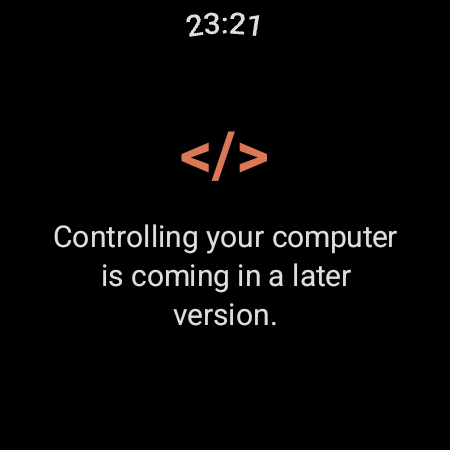
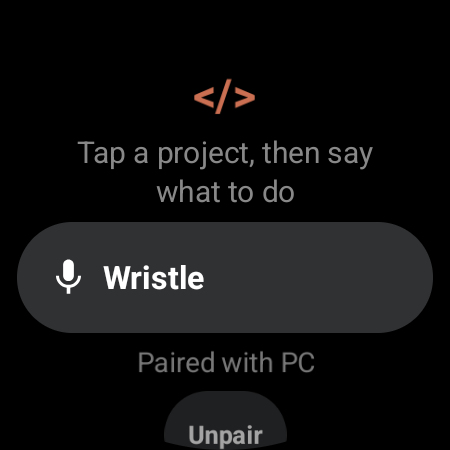
Release workflow for the watch app; README intro and Code screenshot
- A version tag (v0.2.0, ...) builds and tests the release APK on GitHub and
  attaches it to a release. It is signed with a fixed key from the repository
  secrets (docs/releasing.md) and carries no secrets: no API key, and no
  Firebase config, so the released APK offers Chat.
- Without Firebase in the build, the Code half explains why and points to
  `wristle setup`.
- README: a tagline that names the API rather than the product, Code as a real
  feature, a fresh Code screenshot, and the status notes moved down.

diff --git a/app/src/main/java/dev/ayoub/wristle/ui/code/CodeScreen.kt b/app/src/main/java/dev/ayoub/wristle/ui/code/CodeScreen.kt
@@ -65,7 +65,11 @@ fun CodeScreen(
     CenteredList(state = listState) {
         item { Text("</>", color = Accent, fontSize = 22.sp, fontWeight = FontWeight.Bold) }
         when (state) {
-            PairingState.NotConfigured -> item { Info(stringResource(R.string.relay_not_configured)) }
+            PairingState.NotConfigured -> {
+                item { Info(stringResource(R.string.relay_not_configured)) }
+                item { Info("wristle setup", color = Accent, monospace = true) }
+                item { Info(stringResource(R.string.relay_not_configured_detail), color = Color.Gray) }
+            }
             PairingState.Unpaired, PairingState.Working -> {
                 item { CircularProgressIndicator(indicatorColor = Accent, modifier = Modifier.padding(8.dp)) }
                 item { Info(stringResource(R.string.pair_getting_code)) }

diff --git a/README.md b/README.md
@@ -4,7 +4,7 @@
 
 # Wristle
 
-**A voice-first Claude assistant that lives on your wrist.**
+**Talk to the Claude API from your wrist, and run Claude Code on your computer from it too.**
 
 <table>
   <tr>
@@ -19,12 +19,12 @@
   </tr>
   <tr>
     <td align="center"><img src="./docs/screenshots/settings.png" alt="Settings" width="200" /></td>
-    <td align="center"><img src="./docs/screenshots/code.png" alt="Code half: computer control coming later" width="200" /></td>
+    <td align="center"><img src="./docs/screenshots/code.png" alt="Code half: an allowed project on the computer" width="200" /></td>
     <td></td>
   </tr>
   <tr>
     <td align="center"><sub><i>Settings</i></sub></td>
-    <td align="center"><sub><i>Code (coming in phase 2)</i></sub></td>
+    <td align="center"><sub><i>Code: pick a project, say what to do</i></sub></td>
     <td></td>
   </tr>
 </table>
@@ -33,28 +33,13 @@ Press and hold the Home key, ask a question out loud, and watch the answer
 stream in while it is read back to you. The watch talks straight to the
 Claude API over its own Wi-Fi or LTE: no phone, no computer, no server.
 
-[What it does](#what-it-does) · [Compatibility](#compatibility) · [How it works](#how-it-works) · [Quick start](#quick-start) · [Launching](#launching-wristle) · [Roadmap](docs/phase-1-plan.md)
+Tap **Code** instead, pick a project on your computer and say what you want
+to know: a Claude Code session runs there and the answer comes back to your
+wrist, end-to-end encrypted.
+
+[What it does](#what-it-does) · [Compatibility](#compatibility) · [How it works](#how-it-works) · [Quick start](#quick-start) · [Launching](#launching-wristle) · [Computer bridge](bridge/README.md) · [Roadmap](docs/phase-2-plan.md)
 
 </div>
-
----
-
-## ⚠ Project status — read this first
-
-This is a **personal hobby project**. It runs every day on my Galaxy Watch 4.
-It is public because someone else might enjoy it, not because it is
-production-grade.
-
-- **Unofficial.** Not affiliated with, sponsored or endorsed by Anthropic.
-  "Claude" is a trademark of Anthropic, PBC, and is used here only to say
-  which API the app talks to.
-- **You pay for your own usage.** The app uses your own Claude API key
-  (pay-as-you-go). Set a spending limit in the Claude Console.
-- **The API key lives on the watch,** encrypted with a key from the Android
-  Keystore. Anyone with your unlocked watch and developer access could try
-  to get at it.
-- **Sideload only.** There is no Play Store build; you install it with `adb`.
-- **Expect breakage.** Wear OS, One UI Watch and the APIs underneath all move.
 
 ---
 
@@ -72,10 +57,32 @@ production-grade.
   and carry on.
 - ⚡ **Three ways in**: press and hold the Home key (Wristle as digital
   assistant), a one-tap **tile**, or the app list.
-- 🟧 **Two half moons.** The start screen splits into *Chat* and *Code*. Code
-  is where controlling your computer from the watch will live (phase 2).
-- 🔒 **No accounts, no cloud of its own, no analytics.** The only outbound
-  traffic is the watch talking to the Claude API with your key.
+- 💻 **Claude Code from your wrist.** The *Code* half pairs with a small
+  bridge on your computer (`wristle setup`; Windows, macOS and Linux). Pick an
+  allowed project, say what you want to know, and a read-only Claude Code
+  session runs there; you see its progress, the answer and what it cost.
+  Approving tool use from the watch is next.
+- 🔒 **No accounts, no cloud of its own, no analytics.** Chat only talks to the
+  Claude API with your key. Code adds your own free Firebase project as the
+  relay, with end-to-end encryption between watch and computer.
+
+---
+
+## Project status
+
+A **personal hobby project** that runs every day on my Galaxy Watch 4; public
+because someone else might enjoy it, not because it is production-grade.
+
+- **Unofficial.** Not affiliated with, sponsored or endorsed by Anthropic.
+  "Claude" is a trademark of Anthropic, PBC, and is used here only to say
+  which API the app talks to.
+- **You pay for your own usage** with your own Claude API key (pay-as-you-go).
+  Set a spending limit in the Claude Console.
+- **The API key lives on the watch,** encrypted with a key from the Android
+  Keystore. Anyone with your unlocked watch and developer access could try
+  to get at it.
+- **Sideload only.** No Play Store build; you install it with `adb`.
+- **Expect breakage.** Wear OS, One UI Watch and the APIs underneath all move.
 
 ---
 

diff --git a/docs/releasing.md b/docs/releasing.md
@@ -1,0 +1,46 @@
+# Releasing the watch app
+
+Pushing a version tag builds the release APK on GitHub and attaches it to a GitHub release
+([`.github/workflows/app-release.yml`](../.github/workflows/app-release.yml)):
+
+```bash
+git tag v0.2.0
+git push origin v0.2.0
+```
+
+## What is (not) in the APK
+
+- **No API key.** It reaches the watch after install (`wristle setup` → Chat, the adb scripts or typing it).
+- **No Firebase config.** The CI build has no `local.properties`, so the relay is off: the released APK offers
+  **Chat**. **Code** needs a build with your own Firebase project, which `wristle setup` → Code prepares.
+- **The signature** of the signing key below, so each release installs over the previous one.
+
+## Signing key (once)
+
+Android only installs an update when it is signed with the same key as the installed app, so releases use one
+fixed key, stored as repository secrets. Create it on your computer (`keytool` ships with the JDK):
+
+```bash
+keytool -genkeypair -v -keystore wristle-release.jks -alias wristle -keyalg RSA -keysize 4096 -validity 10000
+```
+
+Keep `wristle-release.jks` and its passwords safe and out of the repo (`*.jks` is git-ignored): losing it means
+users have to uninstall before the next update. Then add four secrets (GitHub → Settings → Secrets and
+variables → Actions, or with the GitHub CLI):
+
+```bash
+base64 -w0 wristle-release.jks | gh secret set WRISTLE_KEYSTORE_BASE64   # macOS: base64 -i wristle-release.jks
+gh secret set WRISTLE_STORE_PASSWORD
+gh secret set WRISTLE_KEY_ALIAS        # wristle
+gh secret set WRISTLE_KEY_PASSWORD
+```
+
+On Windows PowerShell, the first line is:
+
+```powershell
+[Convert]::ToBase64String([IO.File]::ReadAllBytes("wristle-release.jks")) | gh secret set WRISTLE_KEYSTORE_BASE64
+```
+
+To sign your own local builds with the same key, copy `keystore.properties.example` to `keystore.properties` and
+fill it in. A watch that has a build signed with another key (for example the debug key) needs
+`adb uninstall dev.ayoub.wristle` once before the first release installs; that also removes its chats and key.
